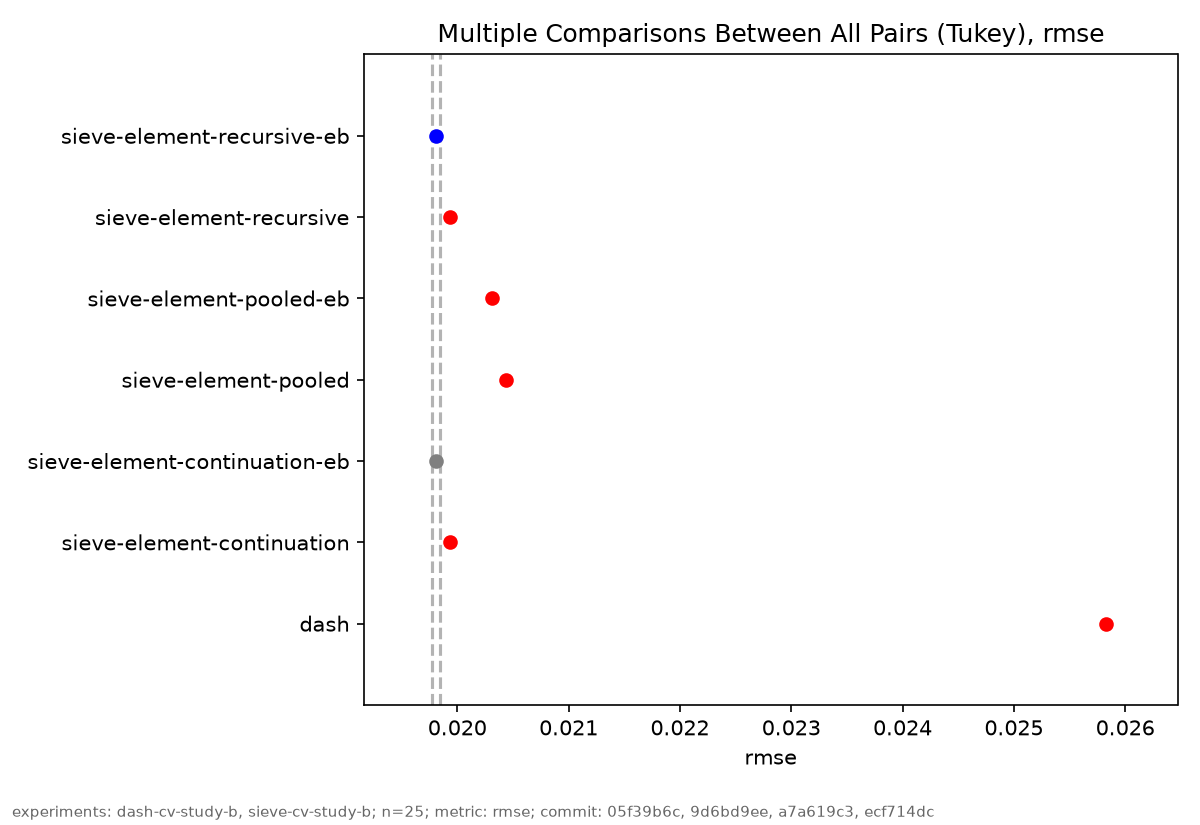
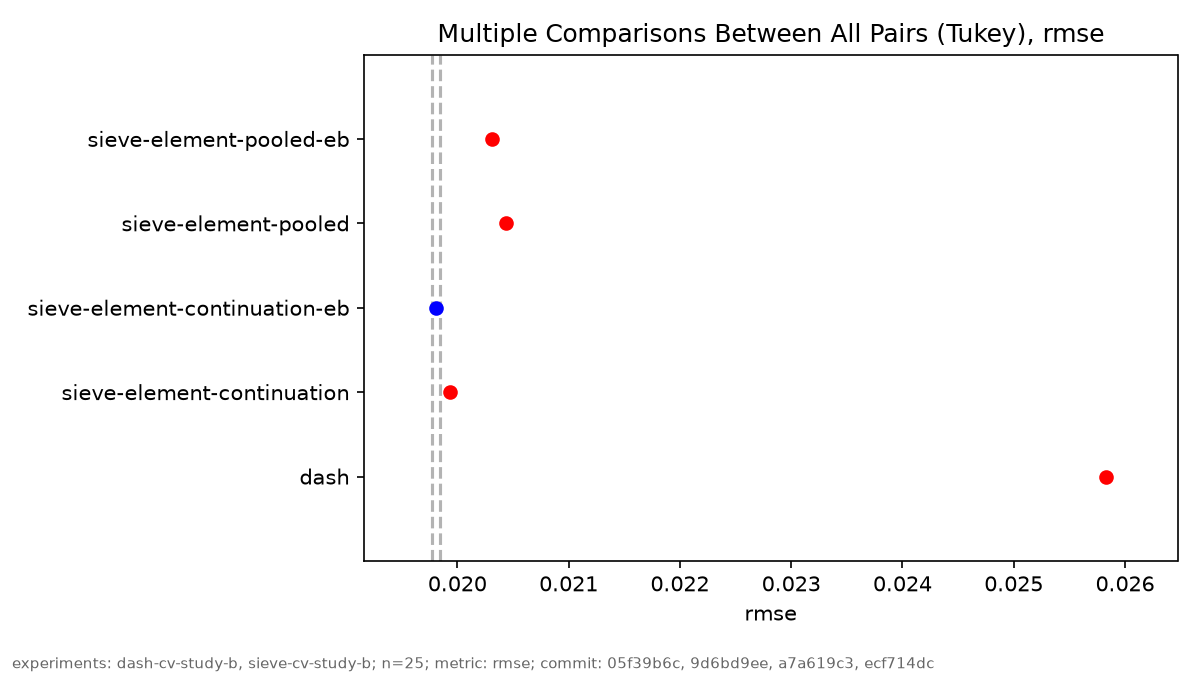
results(experiments): report the Tukey figures without the recursive arms
COMPARE_EXCLUDE keeps named arms out of compare while leaving their runs on
disk. Default: the continuation_recursive pair, which sits within 1e-6 of
the flat continuation pair (Tukey p = 1). The runs are the evidence for the
design spec's addendum; the chart is for the comparison being reported, and
two rows indistinguishable from two others add height without information.
The similarity belongs in the text, with the 22.1%/coin-flip mechanism.

The ANOVA narrows to the reported arms accordingly: F(4,96)=1.97e4,
p=6.8e-139, over dash + pooled/pooled-eb/continuation/continuation-eb.

compare's guard gains a .compare-inputs stamp recording the metric and the
arm set the figures were drawn from. mtimes catch new runs but cannot catch
a changed metric or a changed set of arms, which change the figure just as
much -- as this very change demonstrates, since without the stamp it would
have skipped.

diff --git a/docs/superpowers/specs/2026-09-12-cv-shard-redesign-design.md b/docs/superpowers/specs/2026-09-12-cv-shard-redesign-design.md
@@ -329,6 +329,16 @@ DASH-vs-Sieve gap, and helps almost exactly as often as it hurts. The arms
 are distinct; the *aggregate* is not. Reporting it as "no difference" is
 correct for RMSE and wrong for any per-atom analysis.
 
+**Reporting.** The recursive arms are *run* but kept out of the Tukey
+figures (`COMPARE_EXCLUDE` in the workflow, default
+`sieve-element-recursive,sieve-element-recursive-eb`). The runs stay on disk
+as the evidence for this addendum; a Tukey chart is for the comparison being
+reported, and two rows statistically indistinguishable from two others add
+height without information. The similarity is a result for the text, which
+is where the 22.1%/coin-flip mechanism above belongs. Excluding them also
+narrows the ANOVA to the reported arms -- F(4,96)=1.97e4 rather than
+F(6,144)=1.84e4 -- which is what the reported statistics should describe.
+
 **Correction to an earlier figure.** A first probe reported 32,528/64,985
 atoms (50%) changed. That was measured on a *single shard's* model -- 2% of
 train -- where backoff runs deeper and the recursion therefore bites more
